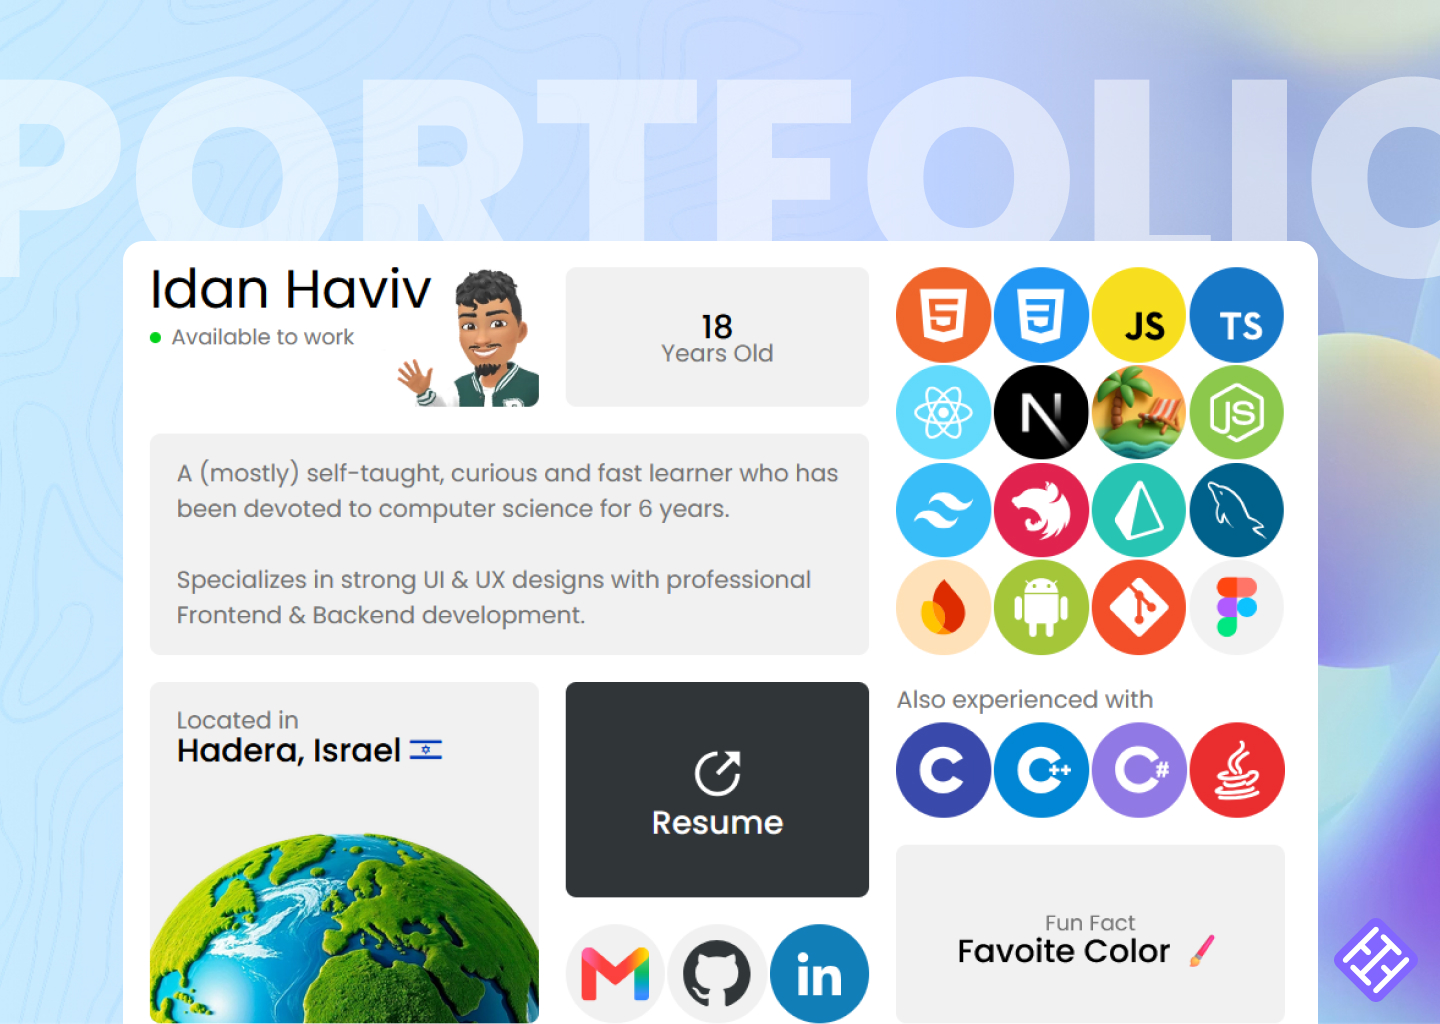
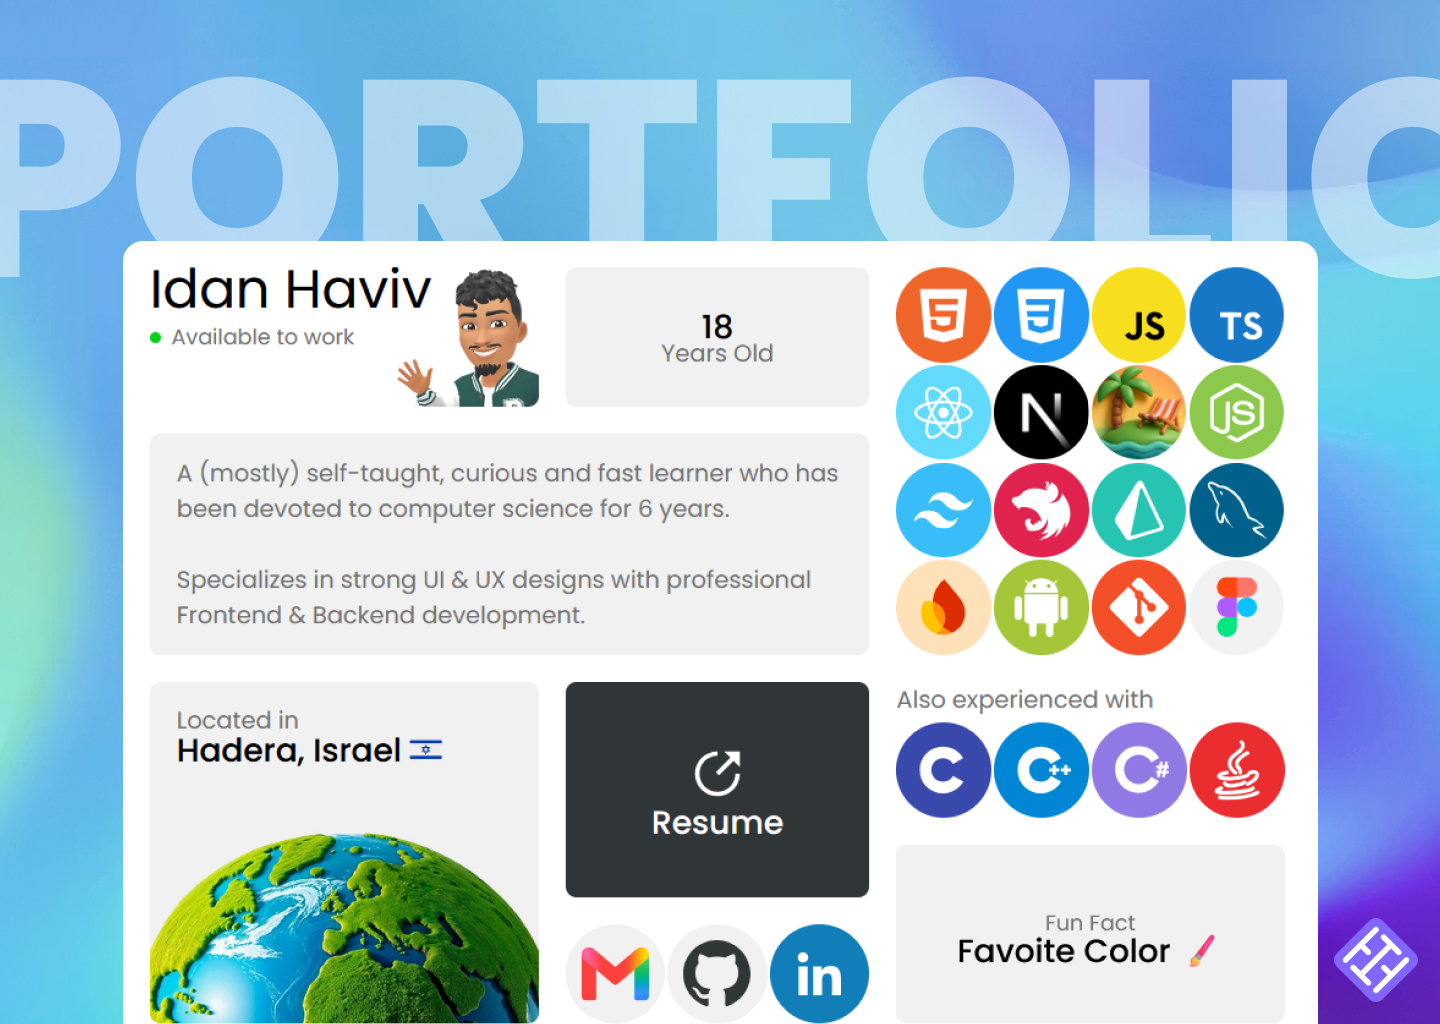
changing hero bg

diff --git a/client/app/(home)/_sections/hero/hero.tsx b/client/app/(home)/_sections/hero/hero.tsx
@@ -6,6 +6,7 @@ import Resume from "@/components/resume";
 import dynamic from "next/dynamic";
 import { motion } from "framer-motion";
 import { getInitialTransition } from "@/lib/helpers";
+import Image from "next/image";
 
 const Fact = dynamic(() => import("./fact"), {
   ssr: false,
@@ -17,13 +18,21 @@ const Hero = () => {
     <>
       <section id="home" className="w-screen h-min px-3 xs:px-6">
         <div className="relative w-full p-4 rounded-3xl overflow-hidden xs:p-6 md:py-10 md:px-0">
-          <div
+          {/* <div
             className="absolute top-0 left-0 w-full h-full -z-10 not-lg:[--bg-position:top]"
             style={{
               background:
                 "url(/assets/hero/bg.jpg) no-repeat var(--bg-position, center)/cover",
             }}
-          ></div>
+          ></div> */}
+
+          <Image
+            src="/assets/hero/bg.jpg"
+            fill
+            className="object-cover object-center lg:object-right -z-10"
+            sizes="100vw"
+            alt="hero-bg"
+          />
 
           <div className="w-full max-w-max-width mx-auto h-min grid grid-cols-[1fr_min-content_1fr] gap-5 not-lg:hidden">
             <Name transition_order={0} />
